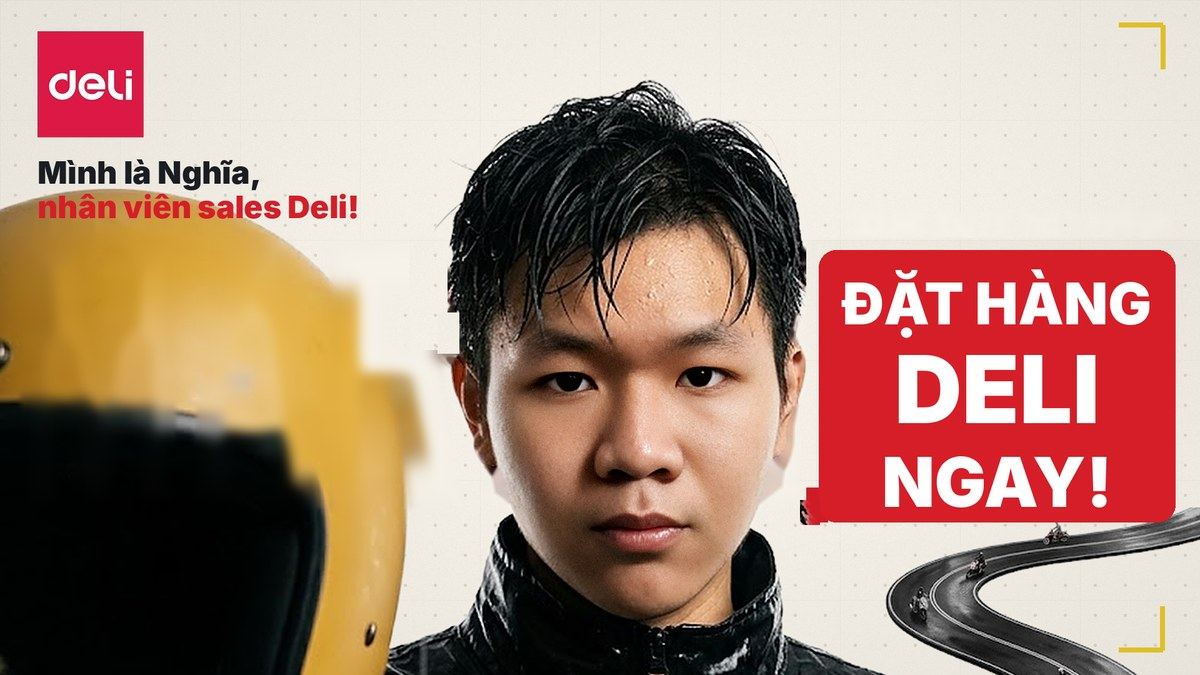
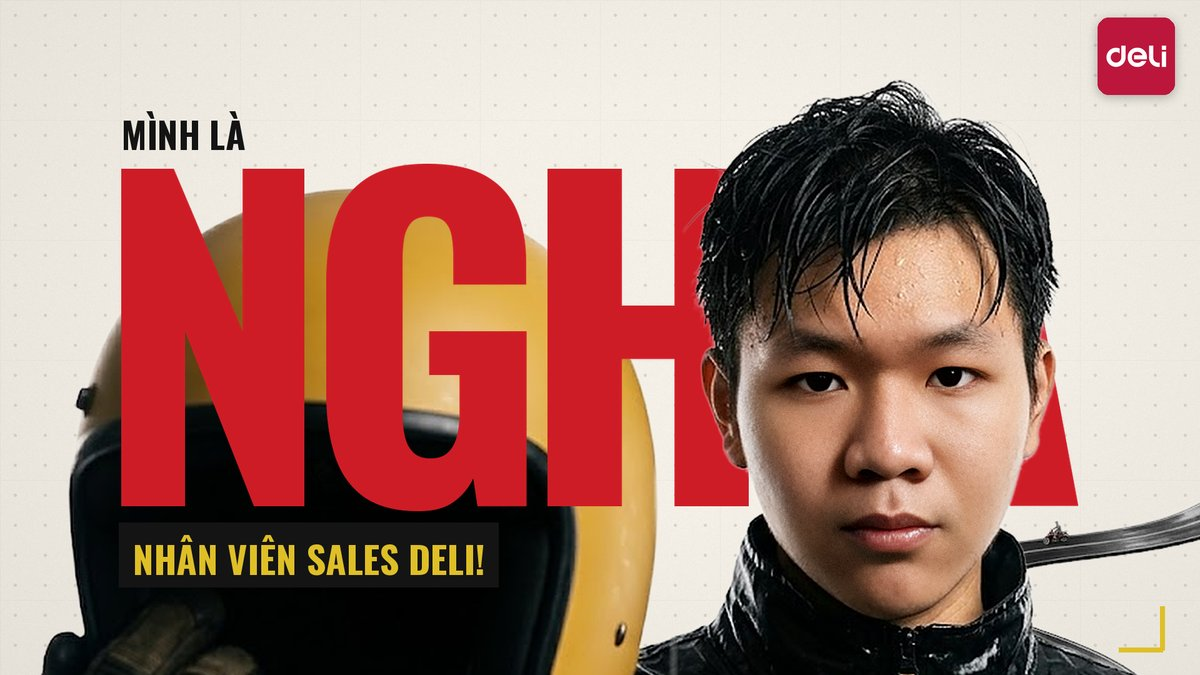
Đổi thumbnail trang đặt hàng
Claude-Session: https://claude.ai/code/session_01CjNBbjr7nvagRG9aRgEiKQ

diff --git a/dat-hang/index.html b/dat-hang/index.html
@@ -10,12 +10,12 @@
 <meta property="og:title" content="Báo giá và đặt hàng Deli">
 <meta property="og:description" content="Xem sản phẩm, giá và đặt hàng văn phòng phẩm Deli cùng Hữu Nghĩa">
 <meta property="og:url" content="https://huunghia08032004-cell.github.io/lethiut.bccc/dat-hang/">
-<meta property="og:image" content="https://huunghia08032004-cell.github.io/lethiut.bccc/dat-hang/img/thumbnail.jpg">
+<meta property="og:image" content="https://huunghia08032004-cell.github.io/lethiut.bccc/dat-hang/img/thumbnail.jpg?v=2">
 <meta property="og:image:width" content="1200">
 <meta property="og:image:height" content="675">
 <meta name="twitter:card" content="summary_large_image">
-<meta name="twitter:image" content="https://huunghia08032004-cell.github.io/lethiut.bccc/dat-hang/img/thumbnail.jpg">
-<link rel="icon" href="img/thumbnail.jpg">
+<meta name="twitter:image" content="https://huunghia08032004-cell.github.io/lethiut.bccc/dat-hang/img/thumbnail.jpg?v=2">
+<link rel="icon" href="img/thumbnail.jpg?v=2">
 <link rel="stylesheet" href="style.css">
 </head>
 <body>
